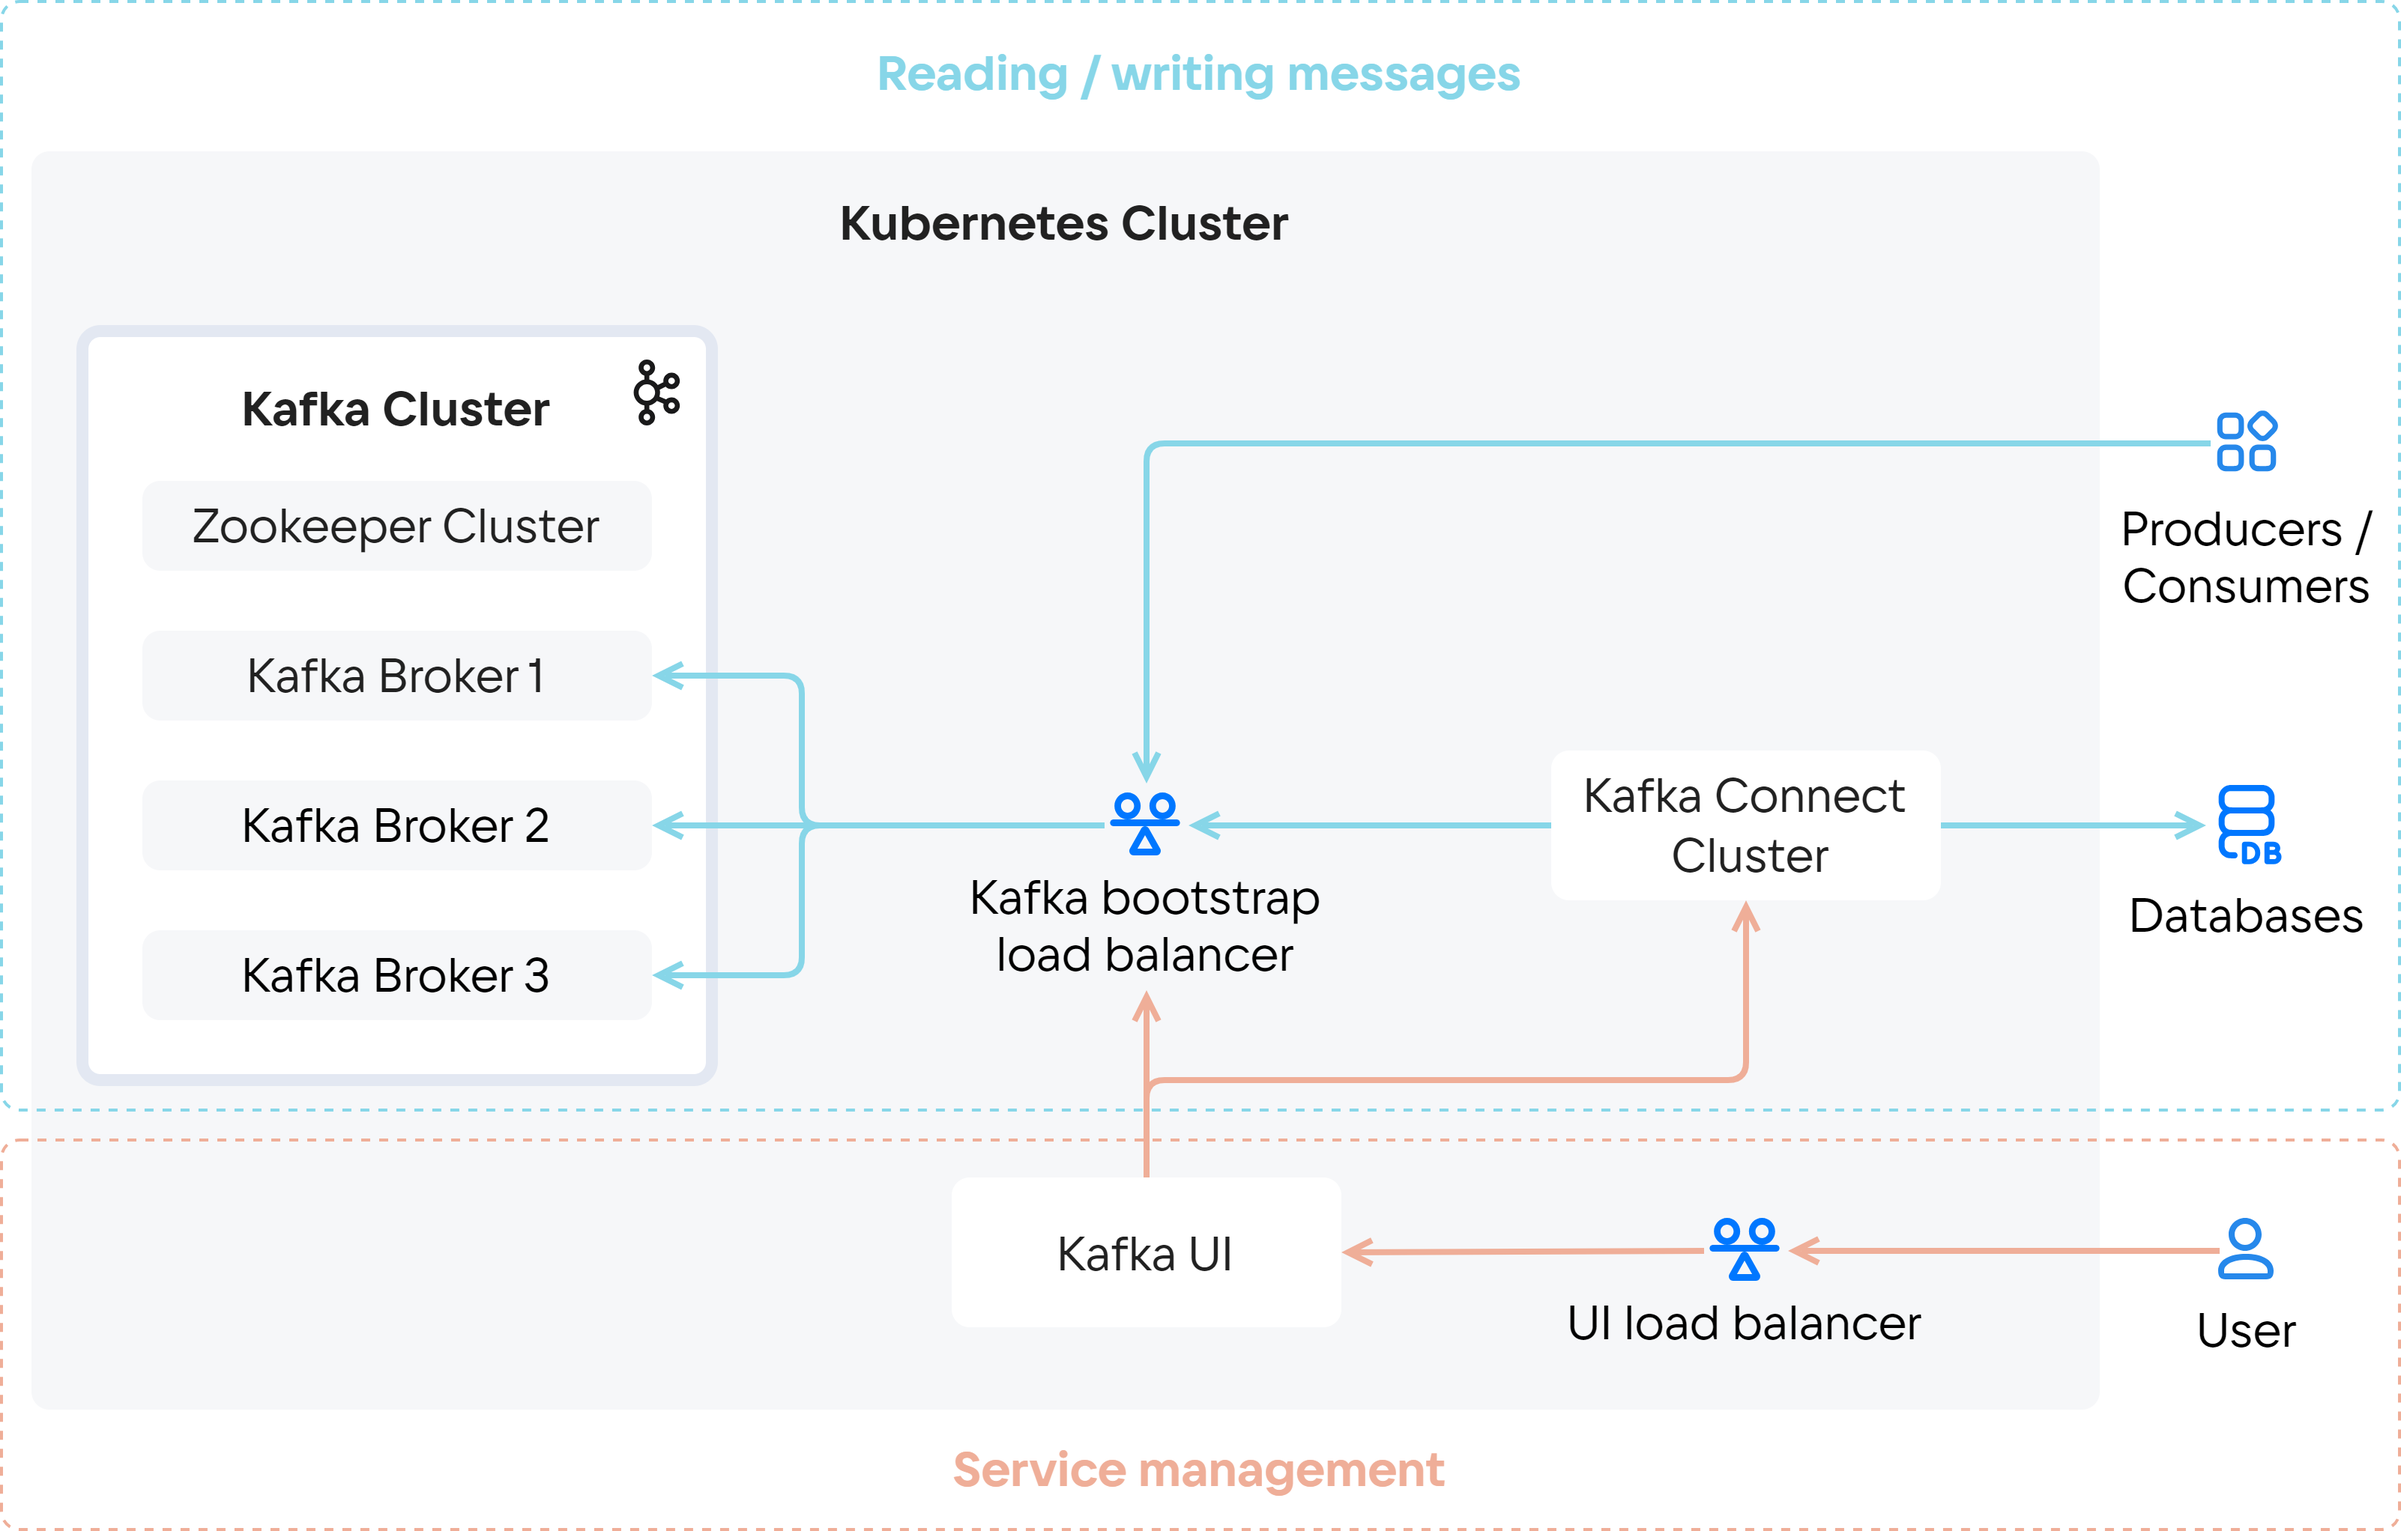
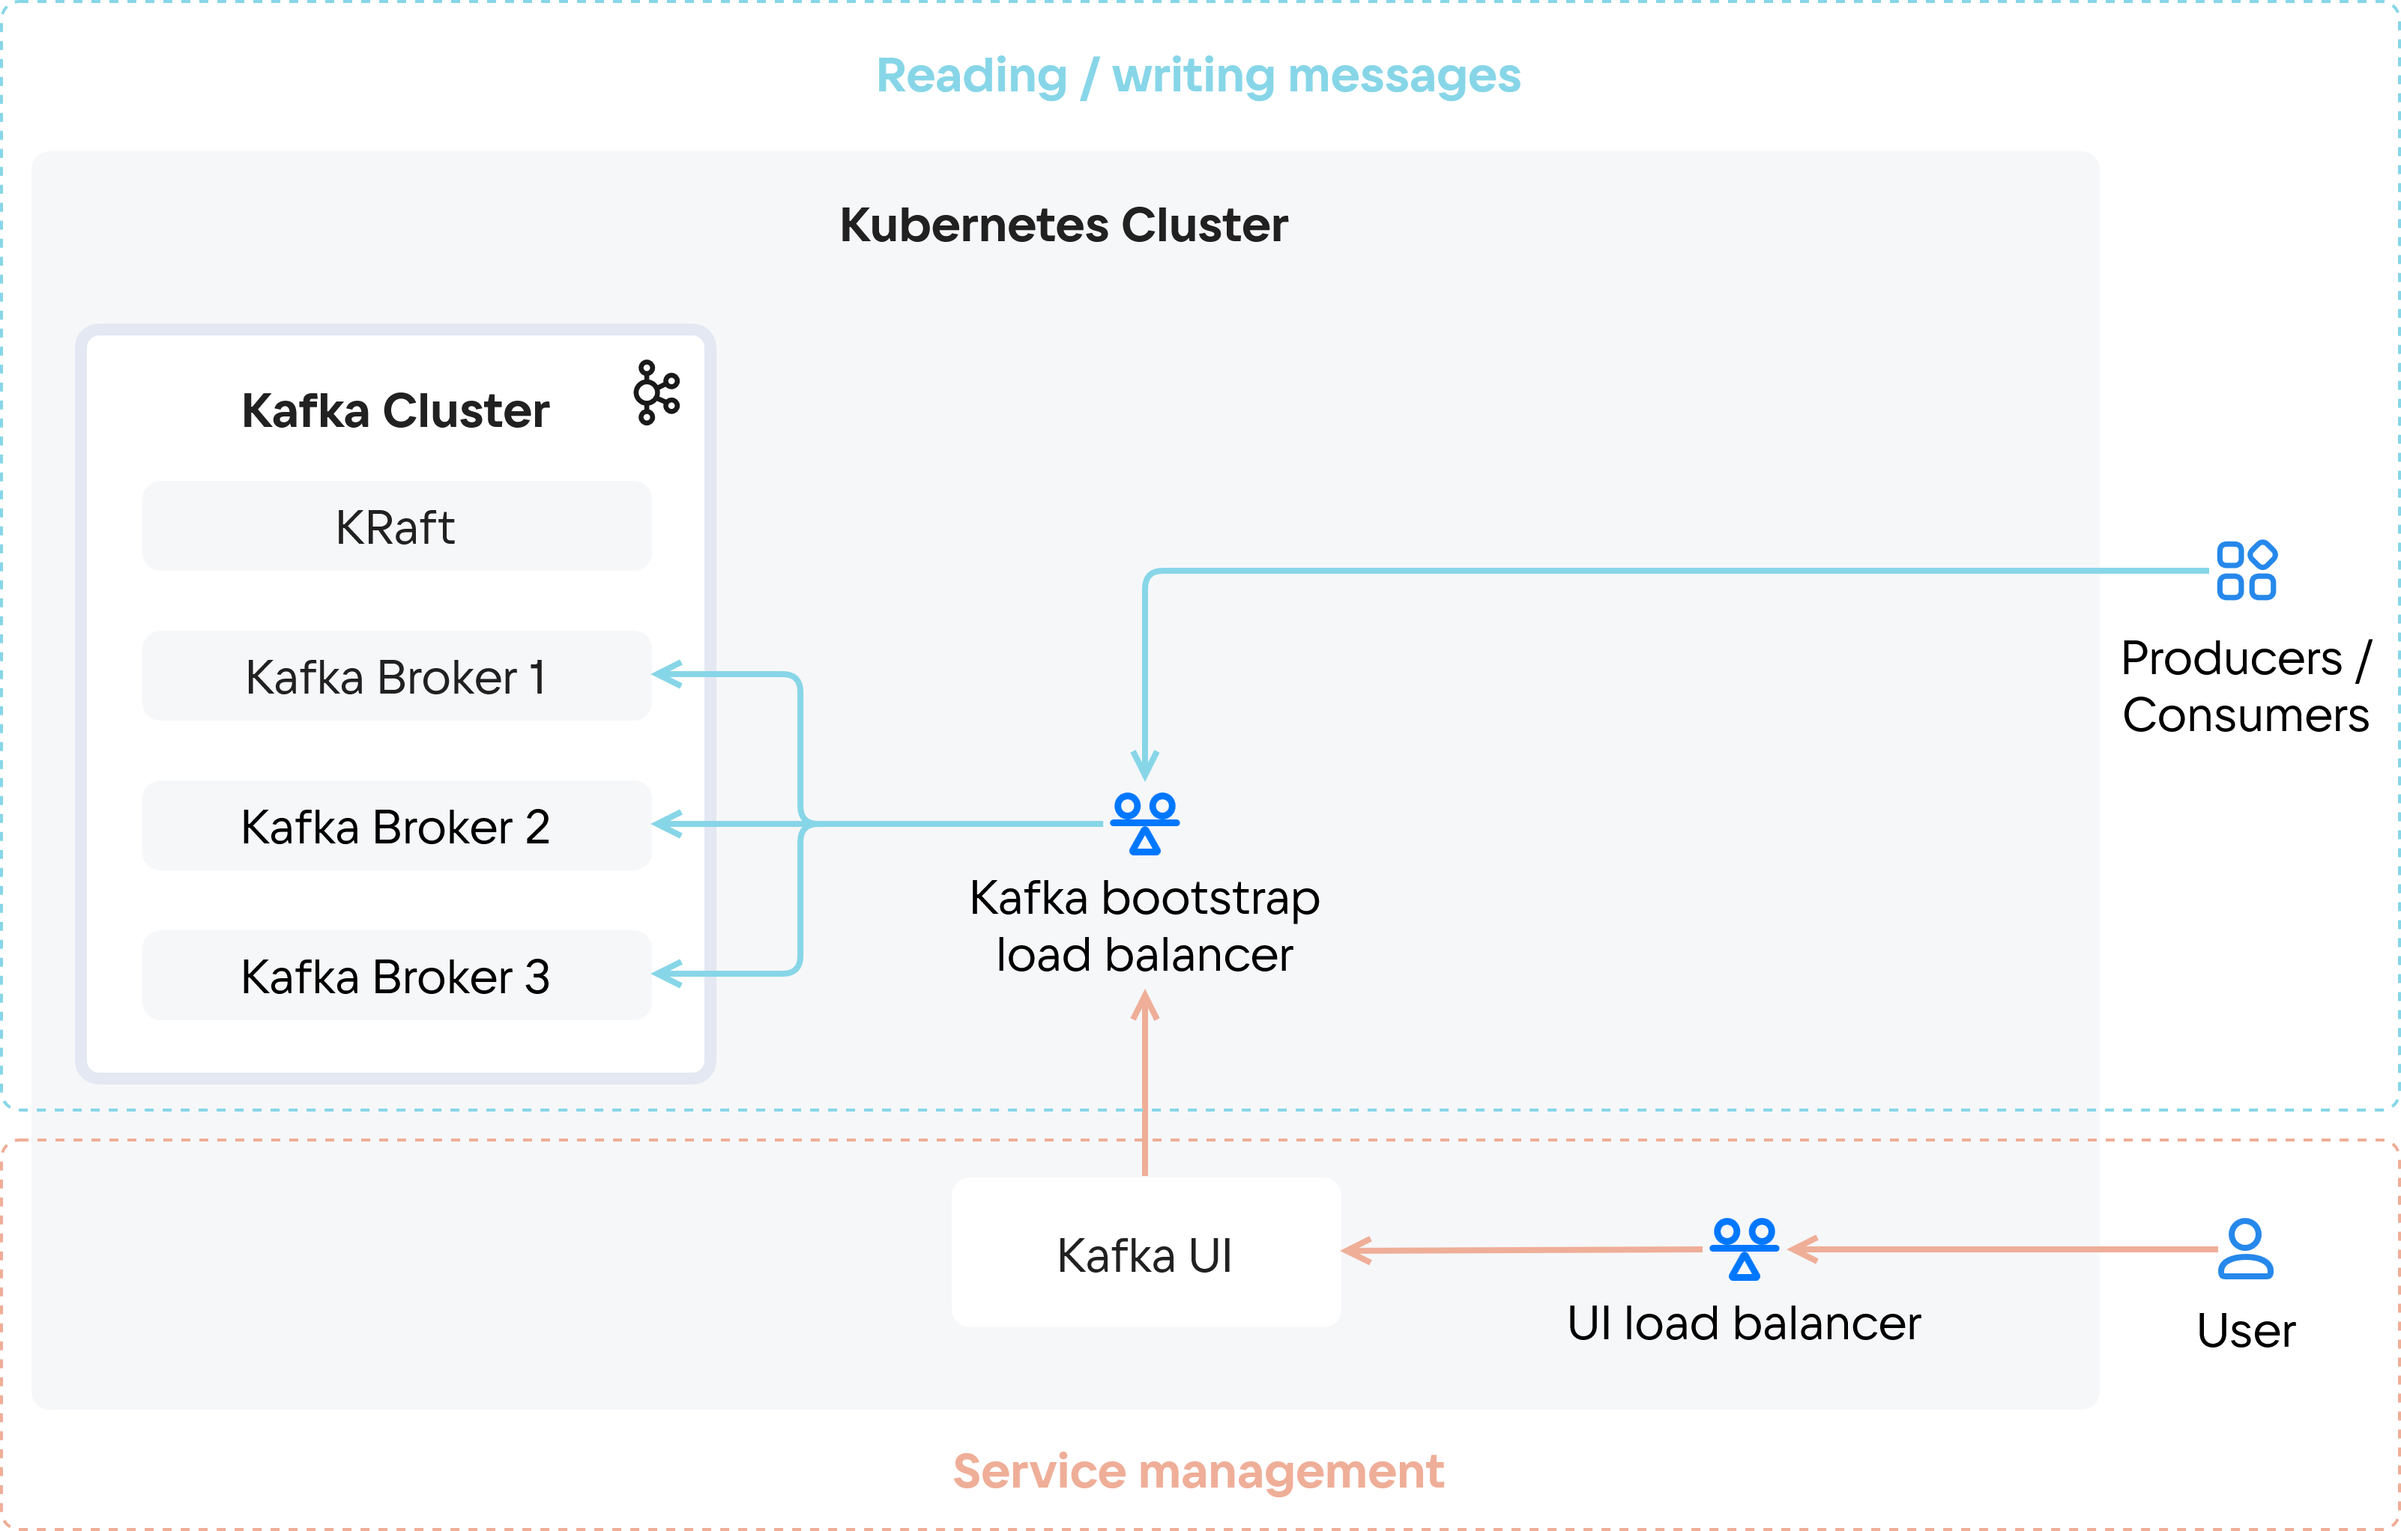
VKCSDOCS-2713: Обновить информацию о Kafka UI

diff --git a/docs/ru/data-platform/kafka/concepts/architecture/architecture.md b/docs/ru/data-platform/kafka/concepts/architecture/architecture.md
@@ -1,18 +1,5 @@
-![Архитектура сервиса](assets/arch_diagram.png)
+<!--![Архитектура сервиса](assets/arch_diagram.png)-->
 
-Кластер Cloud Kafka состоит из нескольких кластеров Zookeeper и нескольких [брокеров](https://kafka.apache.org/documentation/#intro_concepts_and_terms) (Kafka Broker). Количество экземпляров Zookeeper и Kafka Broker зависит от выбранного режима отказоустойчивости. Чтобы повысить производительность кластера, можно вручную увеличить количество брокеров.
+Кластер Cloud Kafka состоит из совмещенных узлов KRaft и [брокера](https://kafka.apache.org/documentation/#intro_concepts_and_terms) (Kafka Broker). Количество таких узлов зависит от выбранного режима отказоустойчивости. Чтобы повысить производительность кластера, количество узлов можно увеличить вручную.
 
 Сервис работает по принципу «публикация/подписка»: поставщики (producers) публикуют сообщения в топики, а потребители (consumers) опрашивают сервис для получения новых сообщений. Для работы у поставщиков и потребителей должно быть настроено подключение через [балансировщик нагрузки](/ru/networks/balancing/concepts/load-balancer) bootstrap (Kafka bootstrap load balancer). Балансировщик обеспечивает отказоустойчивое подключение поставщиков и потребителей.
-
-Для кластера Cloud Kafka может быть создан [Kafka Connect](https://kafka.apache.org/documentation/#connect) — инструмент потоковой передачи данных между Apache Kafka и другими системами. Сервис Cloud Kafka поддерживает коннекторы:
-
-- [JDBC](https://github.com/Aiven-Open/jdbc-connector-for-apache-kafka),
-- [S3](https://github.com/Aiven-Open/s3-connector-for-apache-kafka),
-- [Debezium](https://github.com/debezium/debezium/),
-- [ClickHouse](https://github.com/ClickHouse/clickhouse-kafka-connect).
-
-Также для работы с кластером разворачивается инструмент [Kafka UI](https://docs.kafka-ui.provectus.io/overview/readme). Его основные функции:
-
-- просматривать список топиков кластера Apache Kafka и сообщений в них;
-- запускать коннекторы и отслеживать их работу в Kafka Connect;
-- отслеживать доступность брокеров.

diff --git a/docs/en/data-platform/kafka/concepts/architecture/architecture.md b/docs/en/data-platform/kafka/concepts/architecture/architecture.md
@@ -1,18 +1,5 @@
-![Service architecture](assets/arch_diagram.png)
+<!--![Service architecture](assets/arch_diagram.png)-->
 
-The Cloud Kafka cluster consists of several Zookeeper clusters and several [brokers](https://kafka.apache.org/documentation/#intro_concepts_and_terms) (Kafka Broker). The number of Zookeeper and Kafka Broker instances depends on the selected fault tolerance mode. To improve cluster performance, you can manually increase the number of brokers.
+The Cloud Kafka cluster consists of KRaft instance and several [brokers](https://kafka.apache.org/documentation/#intro_concepts_and_terms) (Kafka Broker). The number of Kafka Broker instances depends on the selected fault tolerance mode. To improve cluster performance, you can manually increase the number of brokers.
 
 The service operates on the “publish/subscribe” principle: producers publish messages to topics, and consumers poll the service to receive new messages. To work with suppliers and consumers, a connection must be configured via [load balancer](/en/networks/balancing/concepts/load-balancer) bootstrap (Kafka bootstrap load balancer). The load balancer provides fault-tolerant connection between suppliers and consumers.
-
-A [Kafka Connect](https://kafka.apache.org/documentation/#connect) can be created for a Cloud Kafka cluster is a data streaming tool between Apache Kafka and other systems. The Cloud Kafka service supports connectors:
-
-- [JDBC](https://github.com/Aiven-Open/jdbc-connector-for-apache-kafka),
-- [S3](https://github.com/Aiven-Open/s3-connector-for-apache-kafka),
-- [Debezium](https://github.com/debezium/debezium/),
-- [ClickHouse](https://github.com/ClickHouse/clickhouse-kafka-connect).
-
-The [Kafka UI](https://docs.kafka-ui.provectus.io/overview/readme) tool is also deployed to work with the cluster. Its main functions are:
-
-- view the list of Apache Kafka cluster topics and messages in them;
-- launch connectors and monitor their operation in Kafka Connect;
-- track the availability of brokers.

diff --git a/docs/en/data-platform/kafka/concepts/about/about.md b/docs/en/data-platform/kafka/concepts/about/about.md
@@ -6,8 +6,7 @@ Possible scenarios for using the service:
 
 - data loading bus, including in data streaming scenarios;
 - buffer for collecting metrics, logs and other types of messages from application systems;
-- queue service for interaction of distributed applications;
-- data transfer between the service and external systems (Kafka Connect).
+- queue service for interaction of distributed applications.
 
 Cloud Kafka service automates processes:
 
@@ -15,4 +14,11 @@ Cloud Kafka service automates processes:
 - efficient allocation of cluster resources;
 - scaling the resources of the service instance.
 
-The user can manage Cloud Kafka resources through the VK Cloud management console, while the standard Apache Kafka tool is available — [Kafka UI](https://docs.kafka-ui.provectus.io/overview/readme).
+You can also add the [Kafka UI](https://ui.docs.kafbat.io/) tool to use with the instance. Its features include:
+
+- Viewing topic information: number of partitions and replicas, current configuration.
+- Managing topics: creation, configuration changes, deletion.
+- Viewing and managing messages: reading, filtering, and searching.
+- Working with consumers: offset management and lag tracking.
+- Managing schemas: viewing schema details, adding new schemas, modifying or deleting existing ones.
+- Monitoring cluster performance and health: tracking lag, errors, and other metrics.
